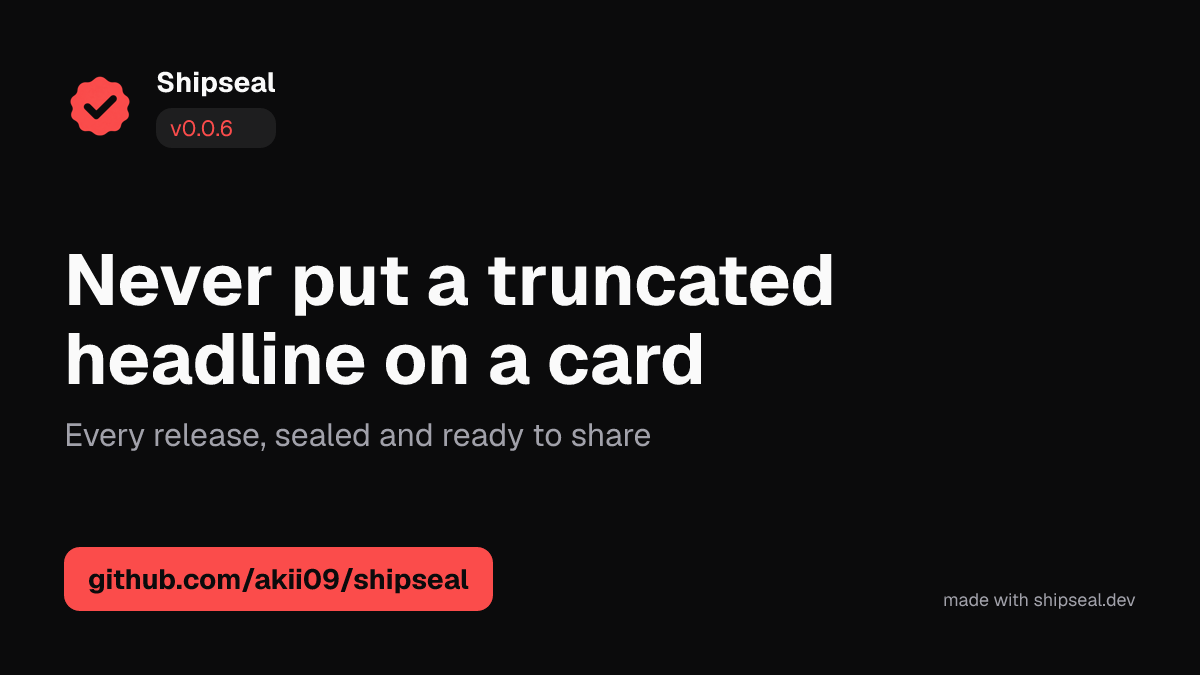
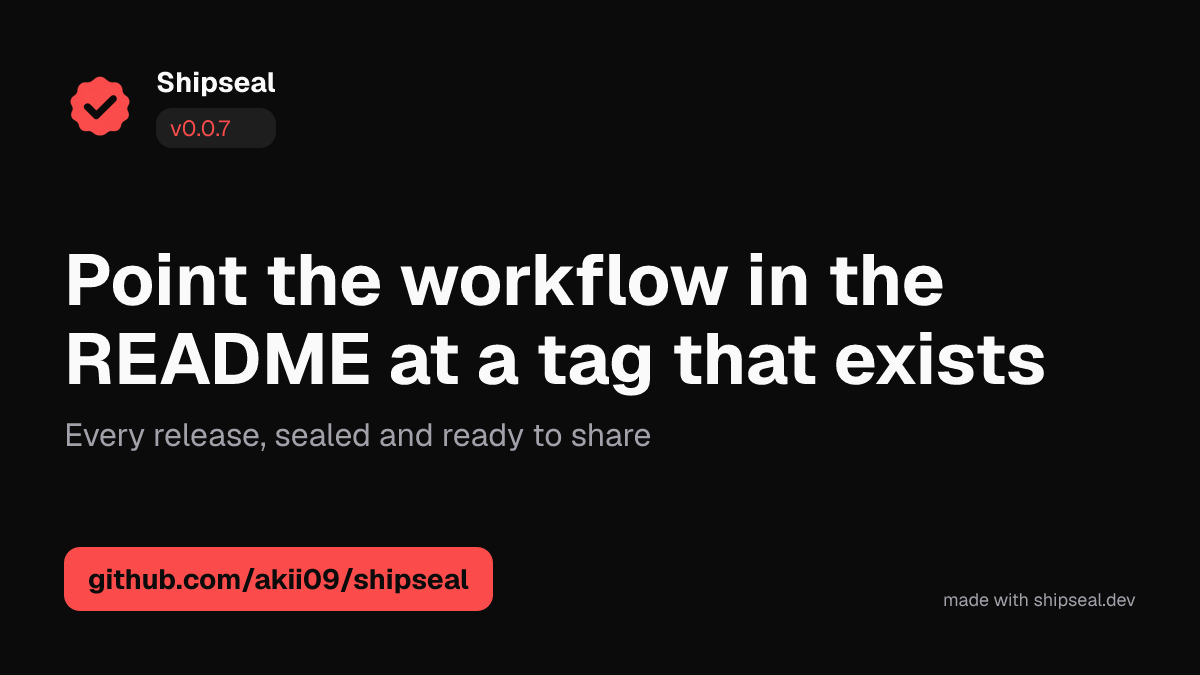
fix(G4): generate the homepage output tree from a real pack
The tree was hand-written and had drifted into fiction: six entries under
invented filenames like og.png, in a v2.0.0 directory, on a site whose claim is
that nothing is invented. Real output is eight files named release-hero-og.png
and so on, so the count in the heading was right and the tree was not.

refresh-showcase.mjs now writes the tree from the rendered pack's manifest, so
it cannot be edited into a lie. The sizes line no longer advertises square,
portrait, Product Hunt and README banner as available: they exist in formats.ts
but no template declares them.

Pin publish.yml's actions to full commit SHAs. That job holds the npm publishing
identity over OIDC, and a tag can be moved by anyone who gains access to the
action's repository. Dependabot already bumps the github-actions ecosystem.

Changed region(s): [[0.0617, 0.3733, 0.8942, 0.5911]]

diff --git a/docs/REVIEW_2026-09-12.md b/docs/REVIEW_2026-09-12.md
@@ -1,0 +1,109 @@
+# Shipseal review: gaps against the vision
+
+> Reviewed 2026-09-12 against `docs/PROJECT_PLAN.md`, the repo at `main` (v0.0.6), the published npm package, and shipseal.dev.
+> Place at `docs/REVIEW_2026-09-12.md`. Each item has an ID so agents can reference it in commits (`fix(G3): ...`).
+
+## Verdict
+
+The engineering is ahead of what was pitched. Phases 1 to 3 are built in about 7,300 lines: provenance manifest, number guard, fitting, brand detection (Tailwind, CSS vars, DTCG), composite Action, golden tests, dogfooded releases, a clear docs site, and an agent page. The core promise ("every number verified") is real and demonstrable.
+
+The gaps are not in the code. They are in **what the cards say, how they look, and who has seen them**. The product's own showcase currently undersells it. Fix the P0 items before any public launch.
+
+---
+
+## P0: fix before launch
+
+### G1. The showcase headline is internal bug-fix language
+The hero on the README and the homepage says "Never put a truncated headline on a card". To a visitor this reads as a strange instruction, not a release. It is a maintainer's fix note from v0.0.6. The first card anyone sees is the product's pitch, and right now it is a patch note.
+
+**Fix:** cut a minor release with a real, user-facing feature (for example milestone cards or light theme) and regenerate the showcase from that. Keep the showcase honest (generated, unedited), but choose a release worth showing.
+
+### G2. No release-significance awareness
+`copy/deterministic.ts` falls back to fixes for the headline (`[...breaking, ...features, ...fixes]`). A patch release with only fixes produces a hero card whose headline is a bug fix. Nobody posts that.
+
+**Fix:**
+- Derive `release.kind` (major, minor, patch) from semver of the tag vs previous tag, with provenance.
+- Add `release.announce` config: `"minor"` default. Below the threshold, skip hero cards and optionally render a compact "N fixes in vX" card, where N is a counted fact.
+- Never use a fix as the hero headline unless the user opts in.
+
+### G3. Changelog lines are written for maintainers, not audiences
+Even feature entries read like commit messages ("Do not use a private workspace root's name as the project name"). Deterministic copy cannot turn that into a headline.
+
+**Fix (cheap, deterministic, keeps R1):**
+- `--headline "..."` and `--subheadline "..."` flags, and `release.headline` in config. Provenance: `user-config`.
+- Support a marker in release notes or changelog: `<!-- shipseal: headline "Milestone cards are here" -->`.
+- Document this as the recommended path; position the optional LLM as the "rewrite for humans" step, which is exactly where it earns its place.
+
+### G4. Site claims that are not true yet (bad look for a "verified" product)
+- "One command, one folder, **eight images**", but the listed tree shows six images plus the manifest.
+- The tree shows `og.png`, `x.png`, `code.png`, but real output names are `release-hero-og.png`, `code-card-x.png`, and so on.
+- "Plus square, portrait, Product Hunt and README banner sizes": these exist in `formats.ts`, but **no template supports them** (templates declare only og, github-social, x, linkedin).
+
+**Fix:** make the site tree match a real `ls` of a real pack (generate it in CI like the showcase), state the real image count, and change the sizes line to "coming soon" or remove it. Add a CI check that fails if the homepage tree diverges from actual output.
+
+### G5. Zero external users
+npm shows v0.0.4 to v0.0.6, 1 star, and the downloads API does not return data yet. The plan's Phase 4 criterion is "at least 3 external repos use the Action before launch day." Since the validation gate was removed (§25, a fair call), this criterion is now the only demand check left. Keep it.
+
+**Fix:** before Show HN or Product Hunt, personally onboard 3 to 5 repos (PDFx first, then maintainers you know). Open PRs adding the workflow for them. Record each in `docs/adopters.md` with what broke.
+
+---
+
+## P1: makes it memorable
+
+### G6. Milestone and benchmark cards are invisible
+Both are built (`milestone.tsx`, `bench.tsx`) but not shown in the README or on the site. Milestone cards are the most shareable output in the whole product.
+
+**Fix:** add a real milestone card to the README and homepage. PDFx has 1,000+ stars, a real number with a real source, which is a perfect verified demo. Add a bench card from a real Shipseal or PDFx benchmark.
+
+### G7. Cards look tidy but generic
+The hero is well set text on black with the right half empty. The code card draws a 14-line box for a 2-line snippet, leaving most of the card empty with small type. Nothing on the cards says "this is Shipseal" except a footer.
+
+**Fix:**
+- Size the code box to its content, and scale the font up for short snippets (fitting logic already exists).
+- Use the empty right side of the hero: a large faded logo, a subtle brand-colored gradient or grid, or the "sealed" motif below.
+- **Signature element:** a small seal stamp on each card with verified facts, for example `sealed · 7 commits · 2026-09-11`. It turns the core promise into a visible brand mark and makes cards recognizable in a feed. It must follow R1 (all values from facts).
+- Show a light-theme example somewhere; the site only shows dark.
+- Raise contrast on the version badge (red text on dark grey is weak).
+
+### G8. Code card snippet does not match the headline
+The v0.0.6 code card pairs a bug-fix headline with the README install commands. The snippet should relate to the headline.
+
+**Fix:** snippet priority: a code block inside the changelog entry used for the headline, then `release.snippet` config, then README. When the snippet is only install commands, title it "Get started" rather than reusing the release headline.
+
+### G9. npm CTA not detected in the monorepo
+The hero CTA shows `github.com/akii09/shipseal` although `shipseal` is on npm. The root package is private and the published package lives in `packages/shipseal`.
+
+**Fix:** when the root is private, look for a single public workspace package (or honor `--package`) for `npmPackage`, and verify it exists on the registry before using `npm i <name>` as the CTA.
+
+---
+
+## P2: distribution and polish
+
+| ID | Item | Why |
+|---|---|---|
+| G10 | Publish the Action to GitHub Marketplace | Free discovery; `action.yml` already has branding. |
+| G11 | Add a second dogfood repo (PDFx) with the workflow on every release | Proves it works on a repo that is not Shipseal, and shows real brand detection. |
+| G12 | Add `docs/adopters.md` and an "Used by" section when it has entries | Social proof for launch. |
+| G13 | Pick one spelling (the site and README use British "colours", the plan uses American) | Consistency; minor. |
+| G14 | Launch assets made by Shipseal itself: a Product Hunt gallery and a Show HN image | The launch should be the demo. Needs the `producthunt` format supported by at least the hero template. |
+| G15 | Re-check the closest competitor (shipshot) before launch and state the difference in the FAQ | People will ask. Answer: events, brand kit, manifest, Action. |
+
+---
+
+## Suggested order of work
+
+1. G2 and G3 (release kind, announce threshold, headline overrides).
+2. G7 and G8 (code card sizing, snippet matching, hero visual, seal stamp).
+3. Cut a real minor release, regenerate showcase (G1), add milestone and bench examples (G6).
+4. G4 (make site match real output, add CI check).
+5. G9, then onboard 3 to 5 external repos (G5, G11, G12).
+6. G10, G14, G15, then launch.
+
+## Plan updates to make
+
+- §13.2: headline source excludes fixes by default; add override flags and changelog marker.
+- §9.2: add `release.kind` fact.
+- §11: add `release.announce`, `release.headline`, `release.subheadline`.
+- §14.3: code card sizing rule; seal stamp as a shared primitive.
+- §21 Phase 4: keep "3 external repos before launch" as the demand check that replaced Phase 0.
+- §25: log each decision above.

diff --git a/README.md b/README.md
@@ -17,7 +17,7 @@ Shipseal turns your repo's releases, milestones, and benchmarks into ready-to-po
 
 ## What it produces
 
-Every image below was generated by Shipseal for its own `v0.0.6` release, by the workflow in
+Every image below was generated by Shipseal for its own `v0.0.7` release, by the workflow in
 this repository. Nothing was edited by hand.
 
 <p align="center">
@@ -42,7 +42,7 @@ Code cards pull a snippet from your README or a file you point at, highlighted w
 rendered without a browser.
 
 The same release also produced GitHub social, X, and LinkedIn sizes, plus a highlights card.
-See the [v0.0.6 release](https://github.com/akii09/shipseal/releases/tag/v0.0.6) for the whole
+See the [v0.0.7 release](https://github.com/akii09/shipseal/releases/tag/v0.0.7) for the whole
 pack, attached automatically by the Action.
 
 ## Why
@@ -78,7 +78,7 @@ jobs:
     steps:
       - uses: actions/checkout@v7
         with: { fetch-depth: 0 }
-      - uses: akii09/shipseal@v0.0.6
+      - uses: akii09/shipseal@v0.0.7
         env: { GITHUB_TOKEN: "${{ secrets.GITHUB_TOKEN }}" }
 ```
 

diff --git a/docs/PROJECT_PLAN.md b/docs/PROJECT_PLAN.md
@@ -972,7 +972,7 @@ jobs:
       - uses: actions/checkout@v7
         with:
           fetch-depth: 0   # required: full history and tags for release facts
-      - uses: akii09/shipseal@v0.0.6
+      - uses: akii09/shipseal@v0.0.7
         env:
           GITHUB_TOKEN: ${{ secrets.GITHUB_TOKEN }}
 ```

diff --git a/packages/shipseal/README.md b/packages/shipseal/README.md
@@ -49,7 +49,7 @@ jobs:
     steps:
       - uses: actions/checkout@v7
         with: { fetch-depth: 0 }
-      - uses: akii09/shipseal@v0.0.6
+      - uses: akii09/shipseal@v0.0.7
         env: { GITHUB_TOKEN: "${{ secrets.GITHUB_TOKEN }}" }
 ```
 
